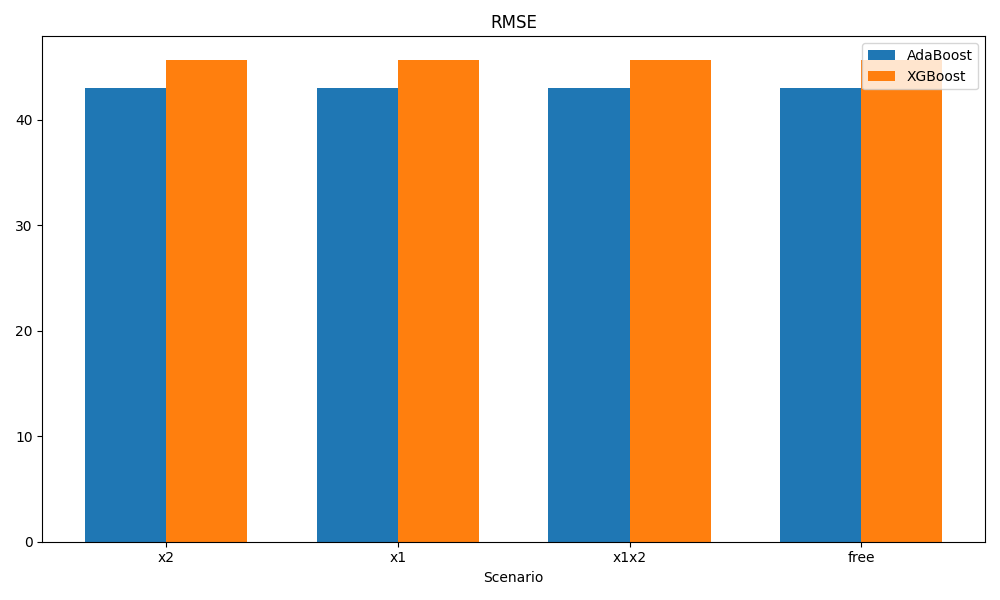
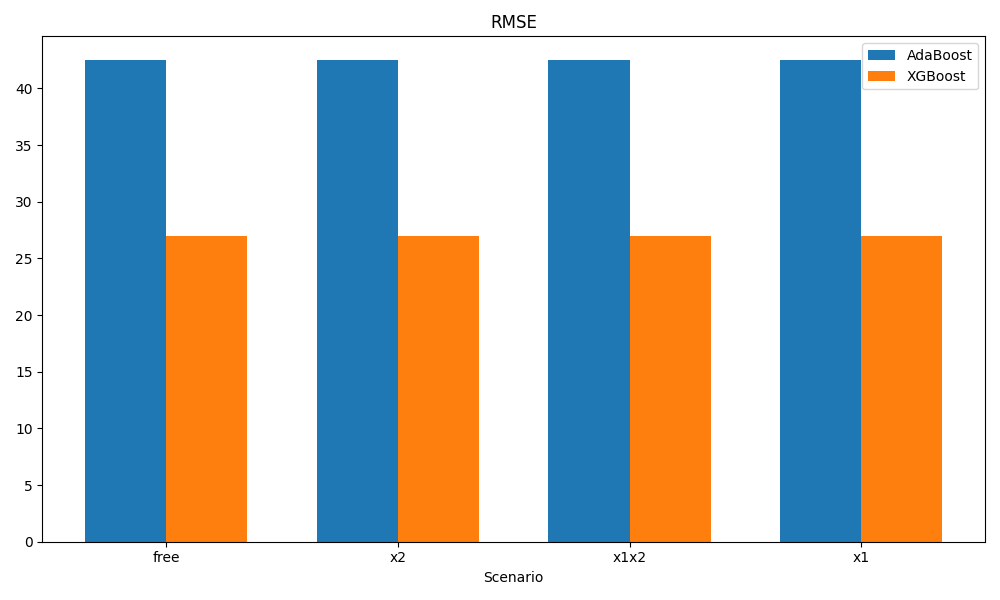
finish: 2

diff --git a/main.py b/main.py
@@ -194,16 +194,6 @@ class main:
             # R2 Score
             print(f"nilai r2 score untuk ada boost : {self.evaluator.get_r2_score()}")
 
-            print(f"overfitting check")
-            overfitting_validation = ev.Evaluator(
-                boost.prediction_value_validation(), data.get_y_validation()
-            )
-            overfitting_test = ev.Evaluator(boost.prediction_value(), data.get_y_test())
-            overfitting_validation_value = overfitting_validation.get_r2_score()
-            overfitting_test_value = overfitting_test.get_r2_score()
-            print(f"r2 validation value : {overfitting_validation_value}")
-            print(f"r2 test value : {overfitting_test_value}")
-
             print("--------------------------------------------------")
             print("--------------------------------------------------")
             evaluator_value = {
@@ -232,15 +222,6 @@ class main:
             # R2 Score
             print(f"nilai r2 score untuk xg boost : {self.evaluator.get_r2_score()}")
 
-            print(f"overfitting check")
-            overfitting_validation = ev.Evaluator(
-                boost.prediction_value_validation(), data.get_y_validation()
-            )
-            overfitting_test = ev.Evaluator(boost.prediction_value(), data.get_y_test())
-            overfitting_validation_value = overfitting_validation.get_r2_score()
-            overfitting_test_value = overfitting_test.get_r2_score()
-            print(f"r2 validation value : {overfitting_validation_value}")
-            print(f"r2 test value : {overfitting_test_value}")
             print("--------------------------------------------------")
             print("--------------------------------------------------")
             print("\n\n")

diff --git a/data_processing.py b/data_processing.py
@@ -107,18 +107,8 @@ class DataProcessing:
         # Semua kolom selain kolom target adalah fitur (X)
         features = [col for col in df_train_feat.columns if col != self.target_col]
 
-        x_train, x_validation, y_train, y_validation = train_test_split(
-            df_train_feat.drop(columns=[self.target_col]),
-            df_train_feat[self.target_col],
-            test_size=0.2,
-            random_state=42,
-        )
-
-        self.x_train = x_train
-        self.y_train = y_train
-
-        self.x_validation = x_validation
-        self.y_validation = y_validation
+        self.x_train = df_train_feat[features]
+        self.y_train = df_train_feat[self.target_col]
 
         self.x_test = df_test_feat[features]
         self.y_test = df_test_feat[self.target_col]
@@ -136,9 +126,3 @@ class DataProcessing:
 
     def get_y_test(self):
         return self.y_test
-
-    def get_x_validation(self):
-        return self.x_validation
-
-    def get_y_validation(self):
-        return self.y_validation

diff --git a/ada_boost.py b/ada_boost.py
@@ -64,12 +64,6 @@ class Adaboost(boost_interface.BoostInterface):
         X_test = self.get_X(self.data.get_x_test())
         return self.model.predict(X_test)
 
-    def prediction_value_validation(self):
-        if self.model == "None":
-            return np.array([])
-        X_validation = self.get_X(self.data.get_x_validation())
-        return self.model.predict(X_validation)
-
     def initialize_parameter_tunning(self, params):
         params_grid = {
             "n_estimators": params["n_estimator"],

diff --git a/xg_boost.py b/xg_boost.py
@@ -70,12 +70,6 @@ class XGBoost(boost_interface.BoostInterface):
         X_test = self.get_X(self.data.get_x_test())
         return self.model.predict(X_test)
 
-    def prediction_value_validation(self):
-        if self.model == "None":
-            return np.array([])
-        X_validation = self.get_X(self.data.get_x_validation())
-        return self.model.predict(X_validation)
-
     def initialize_parameter_tunning(self, params):
         param_grid = {
             "n_estimators": params["n_estimator"],
